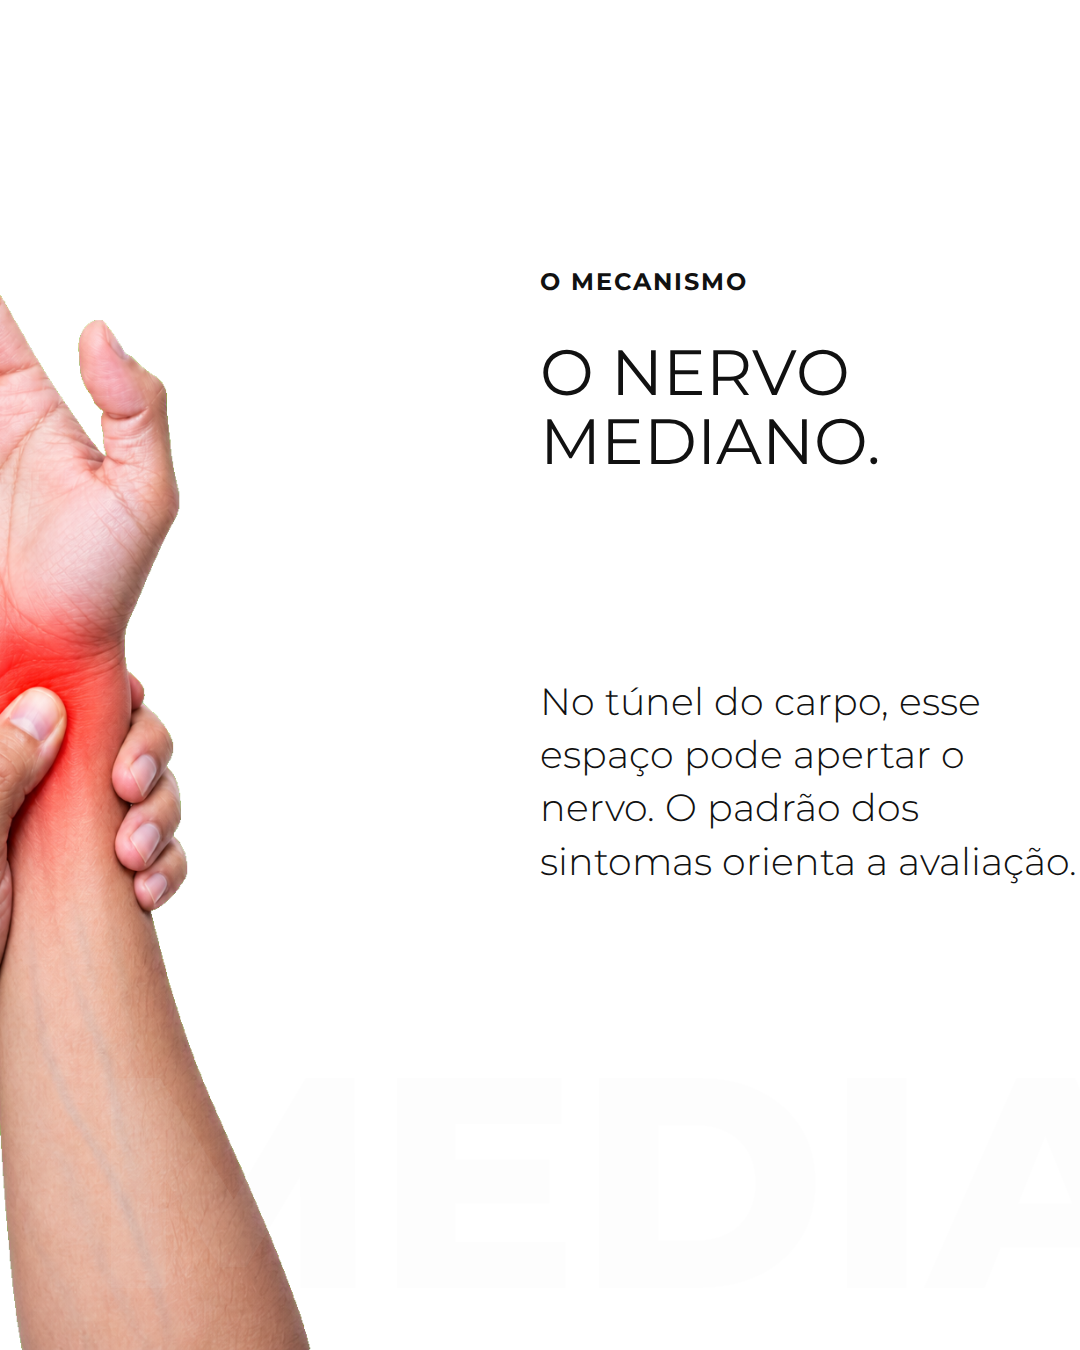
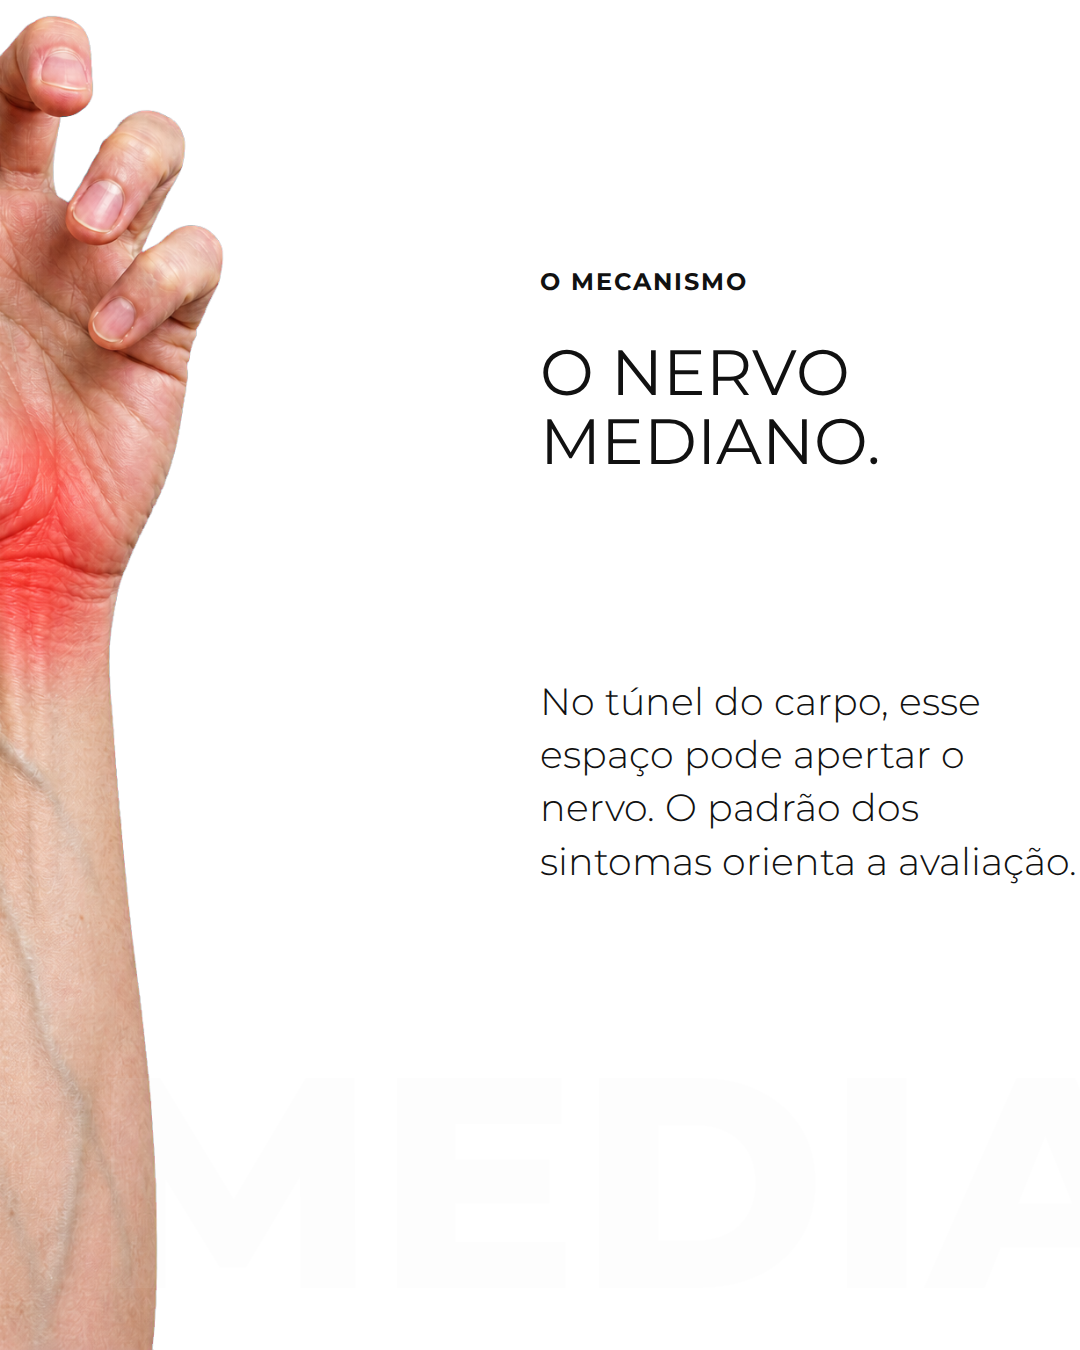
fix: variar travessia carpo cinco

Changed region(s): [[0.0, 0.0, 0.3056, 1.0]]

diff --git a/packs/laserpro-continuo/certification/cert-lp-v1-carpo-5.md b/packs/laserpro-continuo/certification/cert-lp-v1-carpo-5.md
@@ -16,9 +16,9 @@ travessia S2→S3, com fragmento encostando na base; o único equipamento entra
 somente depois, em S4, como faixa clínica. A transição da capa em acento para o
 miolo branco usa o par de fantasmas `PUNHO`.
 
-Correção de travessia: o recorte passou a PNG RGBA retrato (1024×1536), com
-apenas mãos e antebraços verticais e o punho em vermelho translúcido; não há
-pessoa inteira, rosto, roupa ou cenário.
+Correção de travessia: o recorte é PNG RGBA retrato (1024×1536), com dedos em
+garra, punho em vermelho translúcido e antebraço vertical; é uma composição
+distinta da fita carpo-4 e não há pessoa inteira, rosto, roupa ou cenário.
 
 ## Evidências visuais
 
